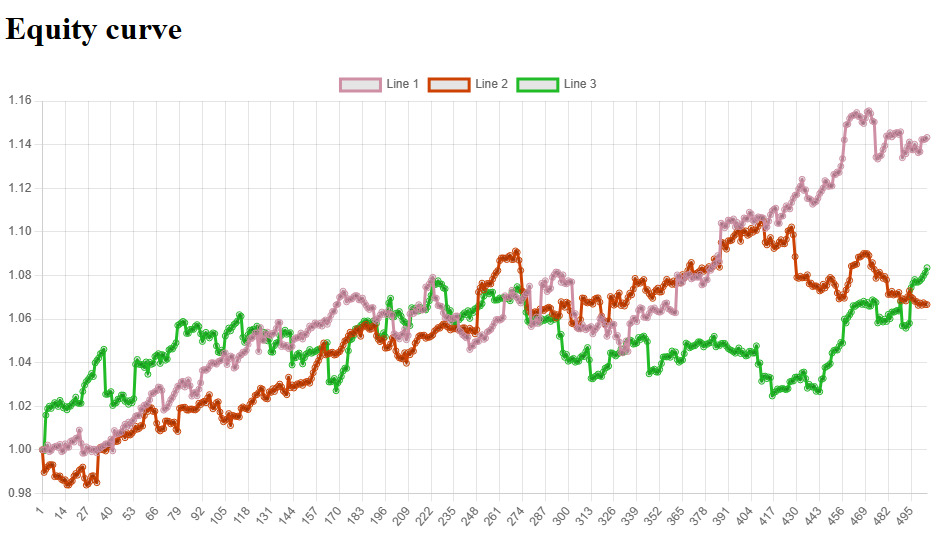
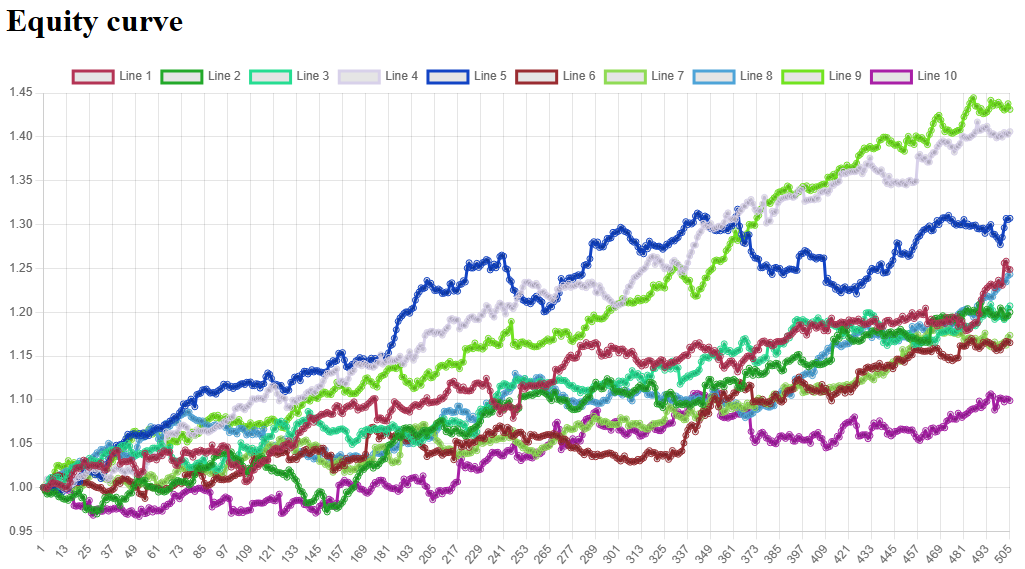
update docker and doc

diff --git a/riskch/templates/mpool/index.html b/riskch/templates/mpool/index.html
@@ -1,8 +1,8 @@
 {% extends 'base.html' %}
 
 {% block header %}
-  <h1>{% block title %}Pool{% endblock %}</h1>
-    <a class="action" href="{{ url_for('mpool.create') }}">New</a>
+  <h1>{% block title %}Porfolio{% endblock %}</h1>
+    <a class="action" href="{{ url_for('mpool.create') }}">Add Issue</a>
 {% endblock %}
 
 {% block content %}
@@ -21,8 +21,11 @@
     <article class="issue">
       <div class="container">
         <div class="name">{{ issue['issue'] }}</div>
-        <div class="data">{{ issue['car25'] }}
-          <a class="action" href="{{ url_for('mpool.sim', id=issue['id']) }}">sim</a>
+        <div class="data">{{ "%.2f"|format(issue['car25']) }}
+          <a class="action" href="{{ url_for('mpool.sim', id=issue['id']) }}">Compute</a>
+          {% if issue['car25'] != 0 %}
+          <a class="action" href="{{ url_for('chart.chart', id=issue['id']) }}">Equity Curve</a>
+          {% endif %}
         </div>
         <div class="data">{{ issue['fromdate'] }}</div>
         <div class="data">{{ issue['todate'] }}</div>

diff --git a/riskch/chart.py b/riskch/chart.py
@@ -1,0 +1,60 @@
+from flask import (
+    Blueprint, flash, g, redirect, render_template, request, url_for
+)
+import json
+
+from flask import (
+    Blueprint, flash, g, redirect, render_template, request, url_for
+)
+from riskch.db import get_db
+from riskch.compute import getTrades, calCAR
+
+from flask import Blueprint
+
+bp = Blueprint("chart", __name__, url_prefix="/chart")
+
+@bp.route('/')
+def index():
+    return redirect(url_for("index"))
+
+@bp.route("/<int:id>", methods=('GET',))
+def chart(id):
+    db = get_db()
+    
+    #issues = db.execute(
+    #    'SELECT *'
+    #    ' FROM eq_safef'
+    #    ' ORDER BY id ASC'
+    #).fetchall()
+    
+    # Generate data for each line 
+    num_lines = 10
+    data = []
+    result = []
+
+    result = db.execute(
+        'SELECT curve'
+        ' FROM eq_safef'
+        ' WHERE issue_id = ? LIMIT ?',
+        (id,num_lines,)
+    ).fetchall()
+    
+    if len(result) > 0:
+        for i in range(num_lines):
+            json_str = result[i][0]
+            line_data = json.loads(json_str)
+            data.append(line_data)
+            if True and 1+1 == 3: #print result
+                print ("line_data: ", line_data)          
+            
+            labels = list(range(1, len(line_data)+1))
+    else:
+        return redirect(url_for("index"))
+    
+    # Return the components to the HTML template
+    return render_template(
+        template_name_or_list='chart/index.html',
+        data=data,
+        labels=labels,
+        num_lines=num_lines
+    )

diff --git a/riskch/mpool.py b/riskch/mpool.py
@@ -2,6 +2,7 @@ from flask import (
     Blueprint, flash, g, redirect, render_template, request, url_for
 )
 from werkzeug.exceptions import abort
+import json
 
 from riskch.db import get_db
 from riskch.compute import getTrades, calCAR
@@ -132,4 +133,18 @@ def sim(id):
             (result['car25'], id)
         )
         db.commit()
+        id =int(id)
+        db.execute(
+            'DELETE FROM eq_safef WHERE issue_id = ?',(id,)
+        )        
+        db.commit()
+        
+        list_data = result['eq']
+        for curve in list_data:
+            json_str = json.dumps(curve)
+            db.execute(
+                'INSERT INTO eq_safef (issue_id, curve) VALUES (?, ?)', 
+                (id, json_str))
+        db.commit()
+        
     return redirect(url_for('mpool.index'))

diff --git a/riskch/__init__.py b/riskch/__init__.py
@@ -38,8 +38,11 @@ def create_app(test_config=None):
     db.init_app(app)
 
     from riskch import compute
- 
     from riskch import mpool
+    from riskch import chart
+    
     app.register_blueprint(mpool.bp)
+    app.register_blueprint(chart.bp)
+    
     app.add_url_rule('/', endpoint='index')
     return app

diff --git a/README.md b/README.md
@@ -7,10 +7,16 @@ Project structure:
 .
 ├── Dockerfile
 ├── requirements.txt
-├── app
-    ├── apikey.py
-    ├── config.py
-    └── main.py
+├── instance
+├── riskch
+    ├── static
+    ├── templates
+    ├── __init__.py
+    ├── chart.py
+    ├── compute.py
+    ├── db.py
+    ├── mpool.py
+    └── schema.sql
 
 ```
 
@@ -29,18 +35,17 @@ CONTAINER ID   IMAGE     COMMAND                  CREATED         STATUS        
 78e6c069e2f3   pyrisk    "flask --app app.mai…"   7 seconds ago   Up 4 seconds   0.0.0.0:8001->8001/tcp   optimistic_meninsky
 ```
 
-After the application starts, navigate to `http://localhost:8001` in your web browser or run:
-```
-$ curl localhost:8001
-Stock: spy
-Periods: 2019-1-1 to 2021-1-1
-Fixed Fraction(%): 20.0, CAR25(%): 2.164
-```
+After the web application starts, navigate to `http://localhost:8001` in your web browser:
 
-Navigate to `http://localhost:8001/eq` in your web browser to check the simulated equity curves:
-```
-```
-![figure1](screen/eqcurve.PNG "")
+![index](screen/index.PNG "")
+![add](screen/add.PNG "")
+![edit](screen/edit.PNG "")
+
+At the first page, you can add, edit, delete and compute the perform metric. For demo, I typical select CAR25 from the book of Dr. Howard Bandy - Quantitative Technical Analysist.
+
+Click on the Equity Curve to check the 10 equally likely equity curves from the Monte Carlos simulation:
+
+![eqcurve](screen/eqcurve.PNG "")
 
 ## Debug related commands
 
